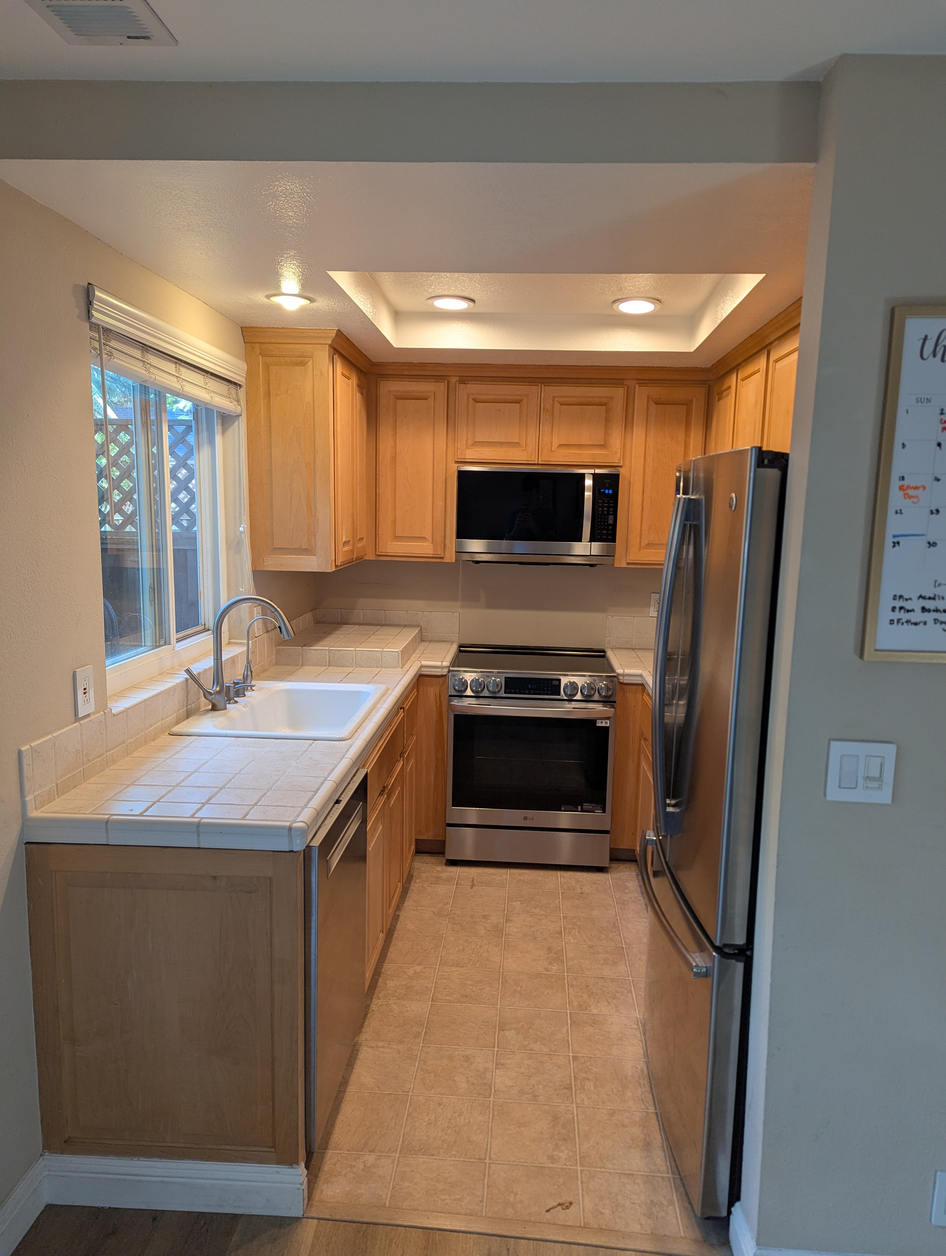
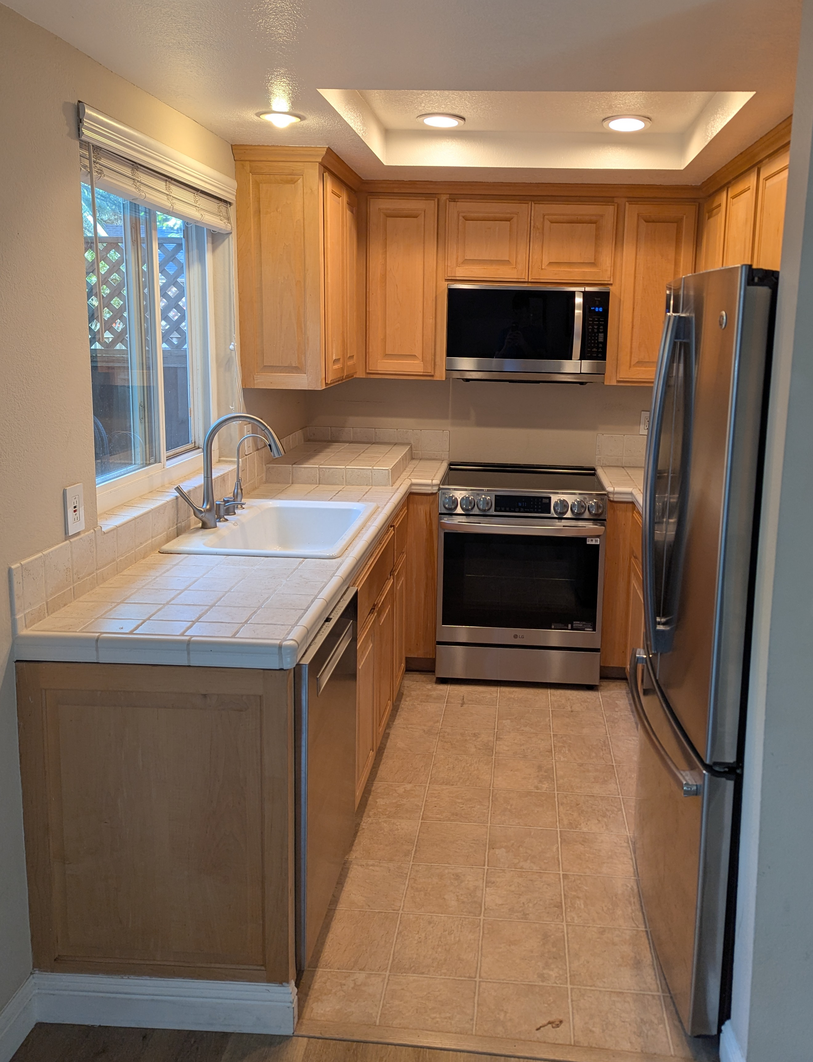
BIG BIG UPDATE - everything is done

diff --git a/_layouts/default.html b/_layouts/default.html
@@ -23,7 +23,14 @@
       max-width: 100%;
       border-radius: 8px;
     }
-    h1 { text-align: center; }
+    h1 { 
+      text-align: center;
+      /* color: #0a226e; */
+      color: #416598;
+     }
+     h3 {
+      color: #416598;
+     }
 
     /* Styling for the button that jumps to the year in photos 
       TODO - figure out how to center the button on the page?
@@ -35,7 +42,7 @@
       margin: 20px 0;        /* Space above/below the button */
 
       /* Appearance */
-      background-color: #257915;
+      background-color: #416598;
       color: white;              /* White text color */
       text-decoration: none;     /* Removes the default underline from links */
       border-radius: 5px;        /* Rounded corners */
@@ -47,7 +54,7 @@
     }
 
     .jump-button:hover {
-      background-color: #216812; /* Darker blue when the user hovers over it */
+      background-color: #31507c; /* Darker blue when the user hovers over it */
     }
 
     html {

diff --git a/index.md b/index.md
@@ -5,9 +5,9 @@ layout: default
 title: "Christmas Letter 2025"
 
 ---
-# Merry Christmas!
+# Rae and Landon's 2025
 
-![Rae and Landon in Amsterdam](assets/img/amsterdam_bicycle.jpg)
+![](assets/img/miscrl/11.jpg)
 
 2025 was such a FULL year! So much happened, in fact, that we are not even going to attempt to summarize the year chronologically. Instead, as an introduction to our 2025 letter, we have crafted a year in review that was inspired by our card design and is, loosely, set to the tune of “12 Days of Christmas." 
 
@@ -19,21 +19,21 @@ My true love enjoyed with me:
 TWELVE months of Landon’s freshly baked bread  
 ELEVEN-ish barre classes Rae taught each month  
 TEN great trips and visits from our family and best friends  
-  (especially this summer,  
-  when you could find us in  
-  San Diego, Irvine, Bar Harbor, Lynden, and Seattle)  
+&nbsp;&nbsp;_(especially this summer,_  
+&nbsp;&nbsp;_when you could find us in_  
+&nbsp;&nbsp;_San Diego, Irvine, Bar Harbor, Lynden, and Seattle)_  
 NINE-ty year celebrations  
 EIGHT batches of homemade yogurt  
 SEVEN Gernants/Sterks in Chicago  
-(where we enjoyed Cubs games, Wait, Wait Don’t Tell Me live, and Kyra & Alec’s wedding)  
+&nbsp;&nbsp;_(where we enjoyed Cubs games,_ Wait, Wait Don’t Tell Me _live, and Kyra & Alec’s wedding)_  
 SIX live plays or musicals  
 FIVE times ten books and counting  
-(but more if you count Landon’s)  
+&nbsp;&nbsp;_(but more if you count Landon’s)_  
 FIVE years of marriage  
 FIVE years in our condo  
 FOUR new countries visited  
 Except only THREE for Landon  
-  (because he pointed out he’s already been to Austria)  
+&nbsp;&nbsp;_(because he pointed out he’s already been to Austria)_  
 TWO 30th birthdays  
 and A lovely, long-awaited kitchen renovation   
   *\*insert piano flourish and final cord here\**
@@ -41,10 +41,16 @@ and A lovely, long-awaited kitchen renovation
 
 In the rest of our letter, you can read all about our two international trips, kitchen renovation, and Rae’s book recommendations. We also have a “Year in Pictures” section at the end as a reward for reading the whole letter (just kidding, feel free to skip to it!). As for all the other fun alluded to above, we’d love to catch up if you want the full scoop for everything we did.
 
-<a href="#year-in-pictures" class="jump-button">📷 Jump to our Year in Pictures 🖼</a>
+<a href="#year-in-pictures" class="jump-button">⬇ Jump to our Year in Pictures 📷</a>
+
+{% include swiper.html slides=site.data.carousels.miscrl extra_class="miscrl" %}
 
 ## European Cities Trip
-Our first big trip of the year was a Spring Break tour in Europe, with stops in Amsterdam, Prague and Vienna. Last Christmas, we pitched the idea to Rae's family, and her parents joined us for the trek! We met up in Amsterdam, where we enjoyed walks along canals and cobblestone streets, visits to art museums, and a glorious performance of St Matthew's Passion the night before Easter. We also enjoyed a fabulous walk through the Keukenhof tulip garden, where we accomplished Rae's dream of seeing spring tulips in bloom. Landon was enthused to visit Delft, a city known for manufacturing blue and white porcelain, so we finally have some Dutch-style pottery in our house.
+Our first big trip of the year was a Spring Break tour in Europe, with stops in Amsterdam, Prague and Vienna. Last Christmas, we pitched the idea to Rae's family, and her parents joined us for the trek!
+
+![A classic canal photo](assets/img/amsterdam/bike_bridge.jpg)
+
+We met up in Amsterdam, where we enjoyed walks along canals and cobblestone streets, visits to art museums, and a glorious performance of St Matthew's Passion the night before Easter. We also enjoyed a fabulous walk through the Keukenhof tulip garden, where we accomplished Rae's dream of seeing spring tulips in bloom. Landon was enthused to visit Delft, a city known for manufacturing blue and white porcelain, so we finally have some Dutch-style pottery in our house.
 
 <!-- Carousel: Amsterdam -->
 {% include swiper.html slides=site.data.carousels.amsterdam %}
@@ -79,6 +85,26 @@ In the 5 years we lived in this condo, we’ve already had to replace the dishwa
 Landon started off the flooring renovation as a DIY job, but he quickly realized that he was out of his league and handed off the rest of the installation to professionals. We ended up getting the floor levelled as a result, which was an added perk.
 
 ![Before and after](assets/img/kitchen/kitchen_before_and_after.png)
+<div class="row-flex">
+  <div class="column-flex">
+    <p><strong>Before - April 2020</strong></p>
+  </div>
+  <div class="column-flex">
+    <p><strong>After - July 2025</strong></p>
+  </div>
+</div>
+<style>
+  .row-flex {
+  display: flex; /* Activates Flexbox layout for the container */
+  gap: 20px;     /* Adds space between the columns */
+}
+
+.column-flex {
+  flex: 50%;     /* Each column takes up 50% of the available space */
+  padding: 10px;
+}
+</style>
+
 
 Despite some delays along the way, we're really happy with our new space, which has made cooking and cleaning up more enjoyable.
 
@@ -123,19 +149,19 @@ On the first two nights, we had beautiful, starry, clear skies but no Northern L
 
 Besides watching the auroras dance above our cabin, the highlights of our trip were:
 
+### Exploring ice caves on a glacier (Katla Geopark / Mýrdalsjökull glacier)
+
 {% include swiper.html slides=site.data.carousels.icecaves extra_class="icecaves" %}
 
-Exploring ice caves on a glacier (Katla Geopark / Mýrdalsjökull glacier)
+### Soaking at Sky Lagoon, a geothermal spa with a beautiful, sunset view 
+![Rae and Landon at sunset along the edge of the lagoon](assets/img/iceland/lagoon.jpg)
 
-{% include swiper.html slides=site.data.carousels.lagoon extra_class="lagoon" %}
-Going to a geothermal lagoon spa with a beautiful, sunset view 
-
+### Seeing majestic Icelandic waterfalls and geysers
 {% include swiper.html slides=site.data.carousels.geysir extra_class="geysir" %}
-Seeing majestic Icelandic waterfalls and geysers (Gullfoss / Geysir)
 
+### Exploring Icelandic cuisine (including a food tour walk in Reykjavik)
 {% include swiper.html slides=site.data.carousels.iceland_food extra_class="icefood" %}
 
-Exploring Icelandic cuisine (including a food tour walk in Reykjavik)
 
 ## Book Recommendations
 
@@ -167,21 +193,17 @@ Haunted houses and gothic stories are never my thing. BUT, this story, with its 
 
 ## Year in Pictures
 
-{% include swiper.html slides=site.data.carousels.miscrl extra_class="miscrl" %}
-
-Rae's trip to Maine
-
-{% include swiper.html slides=site.data.carousels.maine extra_class="maine" %}
-California friends and family:
+### Our life in California (hanging out with family and friends):
 {% include swiper.html slides=site.data.carousels.cafriends extra_class="cafriends" %}
 
-Seeing people we love:
+### Visits to and from people we love:
 {% include swiper.html slides=site.data.carousels.friends extra_class="friends" %}
 
-A whole section just for Kyra’s bachelorette and wedding (a HUGE part of Rae’s year)
+### Rae's trip to Maine
+{% include swiper.html slides=site.data.carousels.maine extra_class="maine" %}
+### A whole section just for Kyra’s bachelorette and wedding (a HUGE part of Rae’s year)
 {% include swiper.html slides=site.data.carousels.kwedding extra_class="kwedding" %}
-Landon's cooking and baking endeavors
-
+### Landon's cooking and baking endeavors
 {% include swiper.html slides=site.data.carousels.baking extra_class="baking" %}
 Merry Christmas from Landon and Rae! ❤🎄
 
